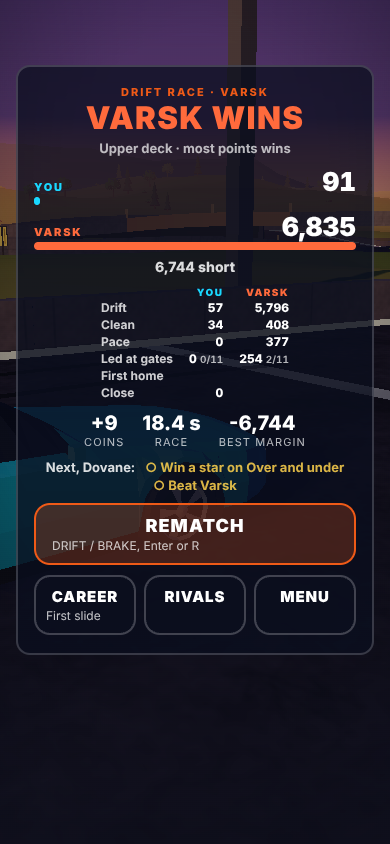
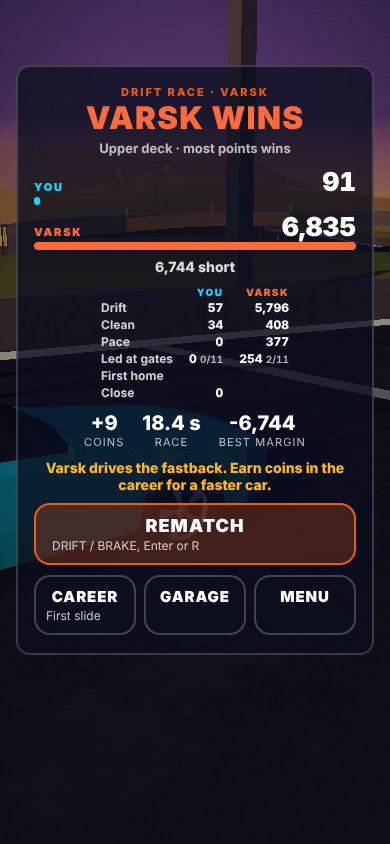
after play: a lost race points at the garage; Dovane a little slower; a hard touch with the rival banks the chain

Changed region(s): [[0.1231, 0.5237, 0.8923, 0.5853], [0.4, 0.6777, 0.5846, 0.7393]]

diff --git a/crazygames/game/test/play14/check.js b/crazygames/game/test/play14/check.js
@@ -1,0 +1,61 @@
+/* AFTER PLAY, 14 November 2026 (the author's second empty save run): a
+   lost race points at the garage, and a hard touch with the rival banks
+   the chain. At three sizes, from an empty save in the starter.
+   Known answers: a first loss to Kestrow (the same car) carries no tip,
+   a win carries none, a wall hit still loses the chain, and with
+   TANDEM.HIT_BANKS off the touch loses it as it used to.
+   node game/test/play14/check.js   writes review/play14/ */
+import path from 'node:path';
+import fs from 'node:fs';
+import * as R from '../ladder/lib.js';
+const dir = path.join(R.root, 'review', 'play14'), shots = path.join(dir, 'shots'); fs.mkdirSync(shots, { recursive: true });
+const env = await R.start(), out = {};
+let fails = 0;
+const ok = (name, pass, detail) => { if (!pass) fails++; console.log((pass ? 'PASS ' : 'FAIL ') + name + ': ' + detail); };
+const race = async (page, id) => {
+  await page.evaluate(id => { const L = window.__loop; window.__feel.draw = false; L.startRun(L.battleSpec(id)); L.skipCountdown(); }, id);
+  await R.runFrames(page, 60);
+  await page.evaluate(() => window.__loop.finishNow());
+  await R.runFrames(page, 30);
+  return page.evaluate(() => { const c = document.querySelector('#screens .card'), q = c.getBoundingClientRect(), t = c.querySelector('.tip'), m = c.querySelector('button.primary');
+    return { won: c.classList.contains('won'), tip: t ? t.textContent : null, main: m ? m.querySelector('b').textContent : null, buttons: [...c.querySelectorAll('button')].map(b => b.querySelector('b').textContent), next: !!c.querySelector('.nextr'), fits: c.scrollHeight <= c.clientHeight + 1 || q.bottom <= innerHeight }; });
+};
+for (const vp of [{ width: 390, height: 844 }, { width: 844, height: 390 }, { width: 1280, height: 720 }]) {
+  const tag = vp.width + 'x' + vp.height, pg = await R.emptyPage(env, vp, ''), page = pg.page, o = out[tag] = {};
+  o.k1 = await race(page, 'r1');
+  ok(tag + ' known answer: a first loss to Kestrow, in the same car, has no tip', !o.k1.won && o.k1.tip === null && o.k1.main === 'REMATCH', JSON.stringify(o.k1));
+  o.v1 = await race(page, 'r3');
+  ok(tag + ' a first loss to Varsk with no coins names his car and says to earn', !o.v1.won && /Varsk drives the fastback/.test(o.v1.tip || '') && /Earn coins/.test(o.v1.tip) && o.v1.main === 'REMATCH' && o.v1.buttons.includes('GARAGE') && o.v1.fits, JSON.stringify(o.v1));
+  await page.evaluate(() => { window.__loop.save.state.coins = 6000; });
+  o.v2 = await race(page, 'r3');
+  ok(tag + ' a second loss with 6,000 coins puts GARAGE first and names the grand tourer', /You can afford the grand tourer/.test(o.v2.tip || '') && o.v2.main === 'GARAGE' && o.v2.buttons.includes('REMATCH') && o.v2.fits, JSON.stringify(o.v2));
+  await page.evaluate(() => { window.__feel.draw = true; }); await R.runFrames(page, 3);
+  await page.screenshot({ path: path.join(shots, tag + '-lost-garage.png') });
+  await page.evaluate(() => document.querySelector('#screens button.primary').click());
+  const at = await page.evaluate(() => document.querySelector('#screens .screen').className);
+  ok(tag + ' GARAGE opens the garage', /garage/.test(at), at);
+  await page.evaluate(() => { window.__loop.save.state.coins = 500; });
+  o.v3 = await race(page, 'r3');
+  ok(tag + ' with 500 coins it offers an upgrade', /You can afford an upgrade/.test(o.v3.tip || '') && o.v3.main === 'GARAGE', JSON.stringify(o.v3));
+  /* a win has no tip */
+  await page.evaluate(() => { const L = window.__loop, r = L.results(); L.screens.results({ ...r, won: true, tip: null, score: r.rival.total + 10, margin: 10 }); });
+  const w = await page.evaluate(() => !!document.querySelector('#screens .tip'));
+  ok(tag + ' known answer: a win has no tip', !w, String(w));
+  /* the touch: the scoring's own step on a made hit */
+  const hit = await page.evaluate(async () => {
+    const { createScoring } = await import('/src/scoring/drift.js'), { TANDEM } = await import('/src/tune.js');
+    const go = (kind) => { const sc = createScoring(() => {}), s = sc.state; sc.reset && sc.reset(); s.chain = 400; s.mult = 3; s.drifting = true; const t0 = s.total;
+      sc.step({ hit: { hard: true, kind }, respawned: false, nearest: 99, car: { slip: 0, speed: 20, vx: 20 } }, 1 / 120); return { gained: s.total - t0, chain: s.chain, lost: s.lost }; };
+    const rival = go('rival'), wall = go('wall'); TANDEM.HIT_BANKS = false; const off = go('rival'); TANDEM.HIT_BANKS = true;
+    return { rival, wall, off };
+  });
+  o.hit = hit;
+  ok(tag + ' a hard touch with the rival banks the chain (400 at x3 pays 1,200)', hit.rival.gained === 1200 && hit.rival.chain === 0, JSON.stringify(hit.rival));
+  ok(tag + ' known answer: a wall hit still loses it', hit.wall.gained === 0 && hit.wall.lost === 1200, JSON.stringify(hit.wall));
+  ok(tag + ' known answer: with HIT_BANKS off the touch loses it', hit.off.gained === 0 && hit.off.lost === 1200, JSON.stringify(hit.off));
+  await page.close();
+}
+fs.writeFileSync(path.join(dir, 'check.json'), JSON.stringify(out, null, 1));
+await env.close();
+console.log(fails ? fails + ' failed' : 'all passed');
+process.exit(fails ? 1 : 0);

diff --git a/crazygames/game/src/main.js b/crazygames/game/src/main.js
@@ -45,7 +45,7 @@ import { CAREER, CHAPTERS, chapterOf, chapterOpen, chapterNeeds, starsToOpen, ca
 import { missionsFor, allMissionsFor, createMissionJudge, missionTally } from './loop/missions.js';
 import { DEFAULT_SETTINGS, tidySettings, labSpec, specFromCode, randomSeed, linkFor, crossoverOffered, format as formatCode } from './lab/lab.js';
 import { drawPlan } from './tracks/plan.js';
-import { carTune, carById, carBox, carRev, upgradeLevels } from './garage/roster.js';
+import { carTune, carById, carBox, carRev, upgradeLevels, ROSTER, UPGRADE_STATS } from './garage/roster.js';
 import { FX_ON } from './fx.js';
 import { createDirector } from './camera/director.js';
 import { TANDEM } from './tune.js';
@@ -90,6 +90,7 @@ const app = {
   ground: null, world: null, progress: null, ghost: null, driver: null,
   spec: null, track: null, laps: 0, targets: null, key: null, missions: null,
   countdown: 0, goShown: 0, runTime: 0, menuT: 0, settle: 0, lockout: 0,
+  lostTo: {},   // races lost to each rival this visit, for the garage tip
   results: null, picked: null,
   lab: null,     // the Track Lab's state: { settings, seed, code, spec, track, message, error }
   rival: null,   // in a drift race (the code says battle): the rival (rivals/rival.js), else null
@@ -575,8 +576,10 @@ function finishBattle() {
   const coins = Math.floor(score * LOOP.COIN_PER_POINT) + (first ? def.prize : 0);
   save.addCoins(coins);
   save.setOnboarded();
+  if (!won) app.lostTo[def.id] = (app.lostTo[def.id] || 0) + 1;
+  const tip = won || (save.state.rivals[def.id] || {}).won ? null : garageTip(def, app.lostTo[def.id]);
   const s = scoring.state, rs = R.scoring.state;
-  app.results = { finished: true, battle: true, mode: 'battle', score, best: s.best, rival: { id: def.id, name: def.name, total: them, seconds: R.state.finishTime }, won, margin, first, prize: first ? def.prize : 0,
+  app.results = { finished: true, battle: true, tip, mode: 'battle', score, best: s.best, rival: { id: def.id, name: def.name, total: them, seconds: R.state.finishTime }, won, margin, first, prize: first ? def.prize : 0,
     tandem: s.tandem, parts: { drift: s.drift - s.tandem, clean: s.clean, pace: s.pace, leads: L.player.lead, line: L.player.line, close: s.tandem, clear: clearPts, clearS: clear },
     rivalParts: { drift: rs.drift, clean: rs.clean, pace: rs.pace, leads: L.rival.lead, line: L.rival.line, close: 0 },
     gates: L.gates, leadGates: L.player.gates, rivalGates: L.rival.gates, lineTo: L.owner[L.gates - 1] || null, changes: L.changes,
@@ -589,6 +592,22 @@ function finishBattle() {
   hud.setCount('', false); hud.setVisible(false); hud.setMissions(null); input.touch.setVisible(false);
   screens.results(app.results);
   if (FX_ON) countCoins(0.45 + (won ? 3 : 0) * 0.28);
+}
+/* After a lost race with a rival not yet beaten: the way to the garage
+   (the author, 14 November 2026: he could not beat Varsk in the starter
+   and nothing told him to buy a car). Shown when his car is dearer than
+   the player's, or from the second loss to him this visit. It names the
+   dearest car the coins will buy, else an upgrade step they will, else
+   says to earn more; push makes GARAGE the results' main button, once
+   there is something to buy and he has been lost to twice. */
+function garageTip(def, losses) {
+  const S = save.state, mine = carById(S.car), his = carById(def.car);
+  if (losses < LOOP.GARAGE_TIP_LOSSES && his.price <= mine.price) return null;
+  const car = ROSTER.filter(c => !S.cars[c.id] && c.price > mine.price && c.price <= S.coins).sort((a, b) => b.price - a.price)[0];
+  const lv = upgradeLevels((S.cars[S.car] || {}).up), step = UPGRADE_STATS.some(k => lv[k] < LOOP.UPGRADE_PRICES.length && LOOP.UPGRADE_PRICES[lv[k]] <= S.coins);
+  const faster = his.price > mine.price ? def.name + ' drives the ' + his.name.toLowerCase() + '. ' : '';
+  const text = car ? faster + 'You can afford the ' + car.name.toLowerCase() + '.' : step ? faster + 'You can afford an upgrade.' : faster + 'Earn coins in the career for a faster car.';
+  return { text, push: !!(car || step) && losses >= LOOP.GARAGE_TIP_LOSSES };
 }
 /* Where the career goes on from here, for a race's results: the first
    open track never finished, else the first open one short of three

diff --git a/crazygames/game/src/ui/screens.js b/crazygames/game/src/ui/screens.js
@@ -252,8 +252,10 @@ export function createScreens(root, onAction) {
     const rematch = cls => `<button type="button" class="big${cls}" data-action="again"><b>REMATCH</b>${cls === ' primary' || !C ? '<small>DRIFT / BRAKE, Enter or R</small>' : ''}</button>`;
     const careerBtn = cls => C ? `<button type="button" class="big${cls}" data-action="play-career" data-arg="${C.index}"><b>${cls ? 'NEXT TRACK' : 'CAREER'}</b><small>${cls ? esc(C.where) + ' &middot; ' : ''}${esc(C.name)}</small></button>` : '';
     const rivalsBtn = '<button type="button" class="big" data-action="rivals"><b>RIVALS</b></button>', menuBtn = '<button type="button" class="big" data-action="title"><b>MENU</b></button>';
-    const main = careerMain ? careerBtn(' primary') : rematch(r.won && goNext ? '' : ' primary');
-    const row2 = !C ? next + rivalsBtn + menuBtn : careerMain ? rematch('') + rivalsBtn + menuBtn : goNext ? next + careerBtn('') + menuBtn : careerBtn('') + rivalsBtn + menuBtn;
+    /* a lost race points at the garage (main.js garageTip): its line takes the next rival's place, and GARAGE takes RIVALS' button, or the main one once it is pushed */
+    const T = r.tip, garageBtn = cls => `<button type="button" class="big${cls}" data-action="garage"><b>GARAGE</b>${cls ? '<small>a faster car</small>' : ''}</button>`;
+    const main = T && T.push ? garageBtn(' primary') : careerMain ? careerBtn(' primary') : rematch(r.won && goNext ? '' : ' primary');
+    const row2 = T && T.push ? rematch('') + careerBtn('') + menuBtn : T ? (C ? careerBtn('') : rivalsBtn) + garageBtn('') + menuBtn : !C ? next + rivalsBtn + menuBtn : careerMain ? rematch('') + rivalsBtn + menuBtn : goNext ? next + careerBtn('') + menuBtn : careerBtn('') + rivalsBtn + menuBtn;
     const P = r.parts || {}, Q = r.rivalParts || {}, gates = Math.max(0, (r.gates || 1) - 1);
     const row = (label, x, y, hint) => `<tr><th>${label}${hint ? ` <small>${hint}</small>` : ''}</th><td>${x}</td><td>${y}</td></tr>`;
     const n = v => fmt(v || 0);
@@ -272,7 +274,7 @@ export function createScreens(root, onAction) {
         <p class="margin">${r.won ? (r.margin ? 'by ' + fmt(r.margin) : 'a tie is yours') : fmt(-r.margin) + ' short'}</p>${b}
         ${table}
         <div class="facts"><span>${coinsN}<small>coins${r.prize ? ' &middot; first win +' + fmt(r.prize) : ''}</small></span><span><b>${r.seconds.toFixed(1)} s</b><small>race</small></span><span><b>${r.best2 !== undefined && r.best2 > -1e9 ? (r.best2 >= 0 ? '+' : '') + fmt(r.best2) : ''}</b><small>best margin</small></span></div>
-        ${nextLine}
+        ${T ? `<p class="unlock tip">${esc(T.text)}</p>` : nextLine}
         ${main}
         <div class="row2">${row2}</div>${z}
       </div>`);

diff --git a/crazygames/game/src/rivals/roster.js b/crazygames/game/src/rivals/roster.js
@@ -25,8 +25,9 @@ export const RIVALS = [
   /* the pace round (briefs/RIVALS-PACE.md, review/pace/REPORT.md), 14 November 2026: the author beat all six first time from an empty save, so these three were searched again, each on his own, for more points a second (his multiple of his track's three star rate, ladder3/ruler.js), each passing the driving bar in the page, at most 2 of 20 disturbed runs missing it and at most 4 of his 38 one per cent moves. Before it they were the closest setups a scan found (game/test/play13/scan.js): Dovane x2.90, Halvik x3.29 (every disturbed run missing the bar), Sarrow x3.93 */
   { id: 'r4', name: 'Dovane', car: 'fastback', paint: 'wine', track: 12, side: -1, prize: 800, laps: 3,
     style: 'Long, linked slides',
+    /* after play, 14 November 2026: the author could not beat him in the best car he could afford ("just a little" too fast), so his slide gain is 1.3, not the search's 1.5: 83.3 s for 6,464, x5.18 of the three star rate (was 6,961, x5.55), 0 of 20 disturbed runs and 0 of 38 one per cent moves miss */
     /* a driving found at random and searched in the fastback (review/pace/runs/d-explore2.log, d3-a.log, its best at 102), in the plain fastback over three laps of Over and under (was Tolvo's driving in the tourer with two steps, 94.0 s for 4,086) */
-    drive: {"SLIDE_GAIN":1.5,"PROGRESS":89,"KEEP":210,"ANGLE_CAP":38.33,"EDGE_SAFE":1.45,"EDGE_COST":2256,"ENTRY":27.68,"VMAX":34,"CHAIN_KEEP":1818,"CHAIN_MARGIN":0.03,"AY_MAX":5.24,"OUTSIDE":0.702,"SETUP":62.65,"WINDOW_PRE":8.22,"WINDOW_POST":16.03,"LINK":7.88,"HB_TIME":0.1,"HB_OVER":4.88,"HB_STEER":0.35} },
+    drive: {"SLIDE_GAIN":1.3,"PROGRESS":89,"KEEP":210,"ANGLE_CAP":38.33,"EDGE_SAFE":1.45,"EDGE_COST":2256,"ENTRY":27.68,"VMAX":34,"CHAIN_KEEP":1818,"CHAIN_MARGIN":0.03,"AY_MAX":5.24,"OUTSIDE":0.702,"SETUP":62.65,"WINDOW_PRE":8.22,"WINDOW_POST":16.03,"LINK":7.88,"HB_TIME":0.1,"HB_OVER":4.88,"HB_STEER":0.35} },
   { id: 'r5', name: 'Halvik', car: 'hatch', paint: 'magenta', track: 18, side: 1, prize: 1000, laps: 2,
     style: 'Short and sharp in the light hatch',   // the shortest race of the six (68.6 s); his angles (29 degrees on average) are no longer the biggest, Dovane's are (33)
     /* Dovane's family of driving found again on High wire (review/pace/runs/h-explore2.log) and searched in the plain hatch (h2-a.log, then h3-a.log at two laps, its best at 31): short of his target, the highest setup found that passes all three bars (was his own driving in the drift build, 92.1 s for 4,338, every disturbed run missing) */

diff --git a/crazygames/game/src/tune.js b/crazygames/game/src/tune.js
@@ -264,6 +264,7 @@ export const LOOP = {
   NEW_STAR_BONUS:     100,     // and once more for each star newly won on a track or the day's daily
   DAILY_BONUS:        1.5,     // the daily drift pays this much more
   PAINT_PRICE:        60,      // coins for a paint other than the car's own
+  GARAGE_TIP_LOSSES: 2,       // races lost to one rival in a visit before the results put GARAGE first (a rival in a dearer car says so from the first)
   UPGRADE_PRICES:     [400, 900, 1800],  // coins for each step of an upgrade, the same for every car (were 250, 500 and 900, and the cars 900, 1,800, 3,200 and 6,000: after play on 14 November the author had the fastback bought and upgraded by the start of Pro and never had to drive anything twice. One clean pass of a chapter pays about 7,500, so the fastback now comes near the end of Pro)
   UPGRADE: {                   // what each step does, as a share of the car's own value
     POWER_ACCEL:      0.06,    // power: drive, per step
@@ -358,7 +359,8 @@ export const TANDEM = {
   LAYER:            2.5,     // m of height apart (a bridge over the other road) that is never close
   RUN_GAP:          40,      // m apart in run distance that is never close (a car a lap down passing the other)
   /* contact: the rival is solid and never moved by the player */
-  HARD_HIT:         5.0,     // m/s into the rival that is a hard contact: the chain is lost, as a wall hit
+  HARD_HIT:         5.0,     // m/s into the rival that is a hard contact
+  HIT_BANKS:        true,    // a hard contact with him banks the chain as it stands; false loses it, as a wall hit does and as it was until 14 November 2026 (the author: he is never slowed or docked by the same touch, so losing everything to it felt unfair)
   HIT_SPEED_KEEP:   0.85,    // share of the player's speed, relative to the rival, kept through a hard contact
   RESTITUTION:      0.1,
   FRICTION:         0.3,

diff --git a/crazygames/game/test/play13/check.js b/crazygames/game/test/play13/check.js
@@ -49,7 +49,7 @@ for (const [w, h] of [[390, 844], [844, 390], [1280, 720]]) {
   ok(tag + ' the results say most points wins', /most points wins/i.test(card.text) && /Led at gates/.test(card.text), card.text.slice(0, 160));
   await page.screenshot({ path: path.join(shots, tag + '-results.png') });
   /* a win with the margin row on the card: it shows, and the card still fits without scrolling */
-  await page.evaluate(() => { const L = window.__loop, r = L.results(); L.screens.results({ ...r, won: true, score: r.rival.total + 357, margin: 357, lineTo: 'player', parts: { ...r.parts, line: 636, clear: 1909, clearS: 12.6 } }); });
+  await page.evaluate(() => { const L = window.__loop, r = L.results(); L.screens.results({ ...r, tip: null, won: true, score: r.rival.total + 357, margin: 357, lineTo: 'player', parts: { ...r.parts, line: 636, clear: 1909, clearS: 12.6 } }); });
   await R.runFrames(page, 30);
   const win = await page.evaluate(() => ({ text: document.querySelector('#screens .card').innerText.replace(/\s+/g, ' '), scrolls: [...document.querySelectorAll('#screens, #screens *')].filter(e => e.scrollHeight > e.clientHeight + 1 && /auto|scroll/.test(getComputedStyle(e).overflowY)).map(e => e.className || e.id) }));
   ok(tag + ' a win shows "First home +2,545 12.6 s clear" and the card does not scroll', /First home \+2,545 12\.6 s clear/.test(win.text) && win.scrolls.length === 0, win.scrolls.join(',') || 'fits');

diff --git a/crazygames/game/src/scoring/drift.js b/crazygames/game/src/scoring/drift.js
@@ -7,7 +7,7 @@
    or a cone, the points count PROX_BONUS times over. Callouts are
    queued for the HUD. Stepped at the physics rate so a replay scores
    the same; every constant is in TUNE.SCORING. */
-import { TUNE } from '../tune.js';
+import { TUNE, TANDEM } from '../tune.js';
 
 const DEG = 180 / Math.PI;
 
@@ -67,7 +67,11 @@ export function createScoring() {
     const car = world.car;
     const angle = Math.abs(car.slip) * DEG;
     s.angle = angle;
-    if (world.hit && world.hit.hard) { lose(); return; }
+    if (world.hit && world.hit.hard) {
+      /* the other car: the chain is banked, not lost (TANDEM.HIT_BANKS); a wall still loses it */
+      if (world.hit.kind === 'rival' && TANDEM.HIT_BANKS) { s.drifting = false; s.gap = 0; bank(); } else lose();
+      return;
+    }
     if (world.respawned) { lose(); return; }
     const kmh = car.speed * 3.6;
     const scoring = angle >= S.MIN_ANGLE && car.speed >= S.MIN_SPEED && car.vx > 0;

diff --git a/crazygames/game/src/physics/world.js b/crazygames/game/src/physics/world.js
@@ -226,8 +226,8 @@ export function createWorld(ground, opts) {
      the deepest corner, worked in the other car's frame (its velocity
      at that point taken away and given back), so a car standing still
      on his line is pushed on by him, not driven through. A contact
-     harder than TANDEM.HARD_HIT along the normal is a hard one: as a
-     wall hit, the chain is lost (the scoring reads world.hit) and the
+     harder than TANDEM.HARD_HIT along the normal is a hard one: the
+     chain is banked (TANDEM.HIT_BANKS; the scoring reads world.hit) and the
      player keeps only HIT_SPEED_KEEP of his speed relative to the other
      car. Returns the hit, or null. */
   const bodyPts = new Float64Array(8), axes = new Float64Array(8);

diff --git a/crazygames/game/index.html b/crazygames/game/index.html
@@ -281,6 +281,7 @@
   .results .runlabel { margin: 0 0 -6px; font-size: 11px; font-weight: 800; letter-spacing: 0.18em; color: var(--brand-line); text-align: center; }
   .results .unlock { margin: 0; font-size: 14px; font-weight: 800; text-align: center; opacity: 0.85; }
   .results .unlock.done { color: var(--brand-fill); opacity: 1; font-size: 15px; }
+  .results .unlock.tip { color: #ffb81c; opacity: 1; }
   .results .chapnote { margin: -4px 0 0; font-size: 13px; font-weight: 700; text-align: center; opacity: 0.75; }
   /* a battle's results (briefs/RIVALS.md 3) */
   .results .card.battle .who { margin: 0; font-size: clamp(30px, 8vw, 44px); font-weight: 900; letter-spacing: 0.04em; line-height: 1; text-align: center; }

diff --git a/crazygames/CLAUDE.md b/crazygames/CLAUDE.md
@@ -696,7 +696,31 @@ every push to `main` or a `crazygames-*` branch that touches this folder.
   states). Still to do for readiness: the SDK adapter (their script is
   an external request and their SDK throws on any other domain, so it
   must load only when the game is on CrazyGames; the Basic launch needs
-  one "Gameplay start" event), `user-select: none` on the body, frame
+  one "Gameplay start" event), frame
   rate on a real GPU and a 4 GB Chromebook, the ten iframe sizes from
   800x450 to 1920x1080 at pixel ratio 1.
+- 14 November 2026, after the author's second empty save run: Kestrow
+  and Tolvo fell to the starter, Varsk only to a bought and upgraded
+  grand tourer, which he had about enough coins for ("just about
+  perfect"). Dovane could not be beaten in the best car he could
+  afford. Three changes, `game/test/play14/check.js`.
+  (1) Nothing told him to buy a car. A lost race with a rival not yet
+  beaten now points at the garage (`garageTip` in `main.js`): from the
+  first loss when the rival's car is dearer than the player's ("Varsk
+  drives the fastback."), else from the second loss to him in a visit
+  (`LOOP.GARAGE_TIP_LOSSES`). It names the dearest car the coins will
+  buy, else says an upgrade is affordable, else says to earn coins in
+  the career. From the second loss, with something to buy, GARAGE is
+  the results' main button. Losses are counted for the visit, not
+  saved.
+  (2) Dovane "just a little" too fast: his slide gain is 1.3, was 1.5:
+  83.3 s for 6,464, x5.18 (was 6,961, x5.55), 0 of 20 disturbed runs
+  and 0 of 38 moves miss. The ladder reads 1.93, 3.69, 4.37, 5.18,
+  3.57, 5.40.
+  (3) Touching him wiped the player's chain and cost him nothing. **A
+  hard touch with the rival now banks the chain** as it stands
+  (`TANDEM.HIT_BANKS`); the multiplier starts again and the speed loss
+  is as it was. A wall still loses it. The recorded Kestrow race
+  replays to the same totals. Halvik and Sarrow are still unplayed
+  since the pace round.
 
